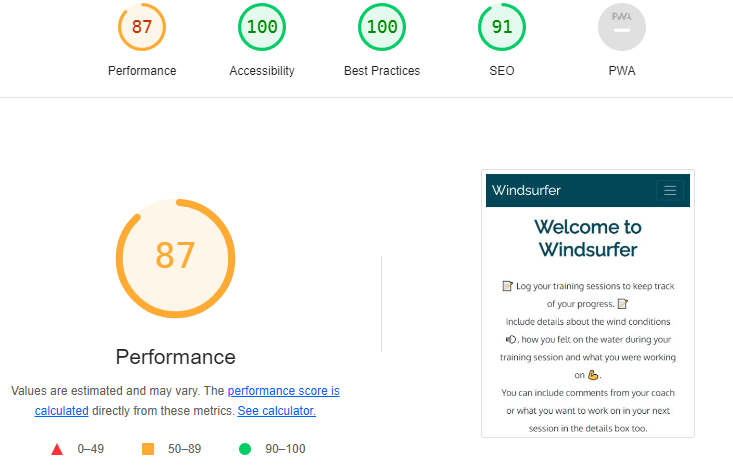
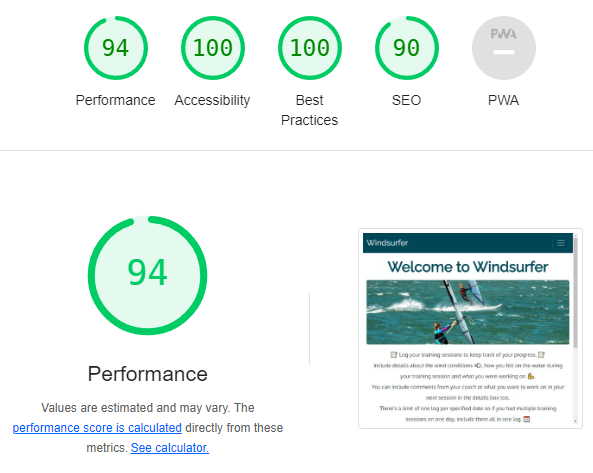
Add lighthouse results to TESTING

diff --git a/TESTING.md b/TESTING.md
@@ -53,6 +53,21 @@ The app was tested with https://wave.webaim.org/ - no errors or contrast warning
 
 ### Lighthouse
 
+The app was tested with Google Chrome's Lighthouse tool to analyse performance. It was tested in incognito mode.
+
+| Tested              | Performance Score | View Result                                                                                                            |
+| ------------------- | ----------------- | ---------------------------------------------------------------------------------------------------------------------- |
+| index.html          | 94                | <details> <summary>View result</summary> <img src="docs/testing/code_validation/lighthouse-index.png> </details>       |
+| about.html          | 94                | <details> <summary>View result</summary> <img src="docs/testing/code_validation/lighthouse-about.png"> </details>      |
+| signup.hmtl         | 95                | <details> <summary>View result</summary> <img src="docs/testing/code_validation/lighthouse-signup.png"> </details>     |
+| login.html          | 93                | <details> <summary>View result</summary> <img src="docs/testing/code_validation/lighthouse-login.png"> </details>      |
+| logout.html         | 96                | <details> <summary>View result</summary> <img src="docs/testing/code_validation/lighthouse-logout.png"> </details>     |
+| create_session.html | 94                | <details> <summary>View result</summary> <img src="docs/testing/code_validation/lighthouse-create.png"> </details>     |
+| my_sessions.html    | 95                | <details> <summary>View result</summary> <img src="docs/testing/code_validation/lighthouse-mysessions.png"> </details> |
+| session_detail.html | 95                | <details> <summary>View result</summary> <img src="docs/testing/code_validation/lighthouse-read.png"> </details>       |
+| update_session.html | 94                | <details> <summary>View result</summary> <img src="docs/testing/code_validation/lighthouse-update.png"> </details>     |
+| delete_session.html | 92                | <details> <summary>View result</summary> <img src="docs/testing/code_validation/lighthouse-delete.png"> </details>     |
+
 ## Test Cases (user story based with screenshots)
 
 ## Fixed Bugs
